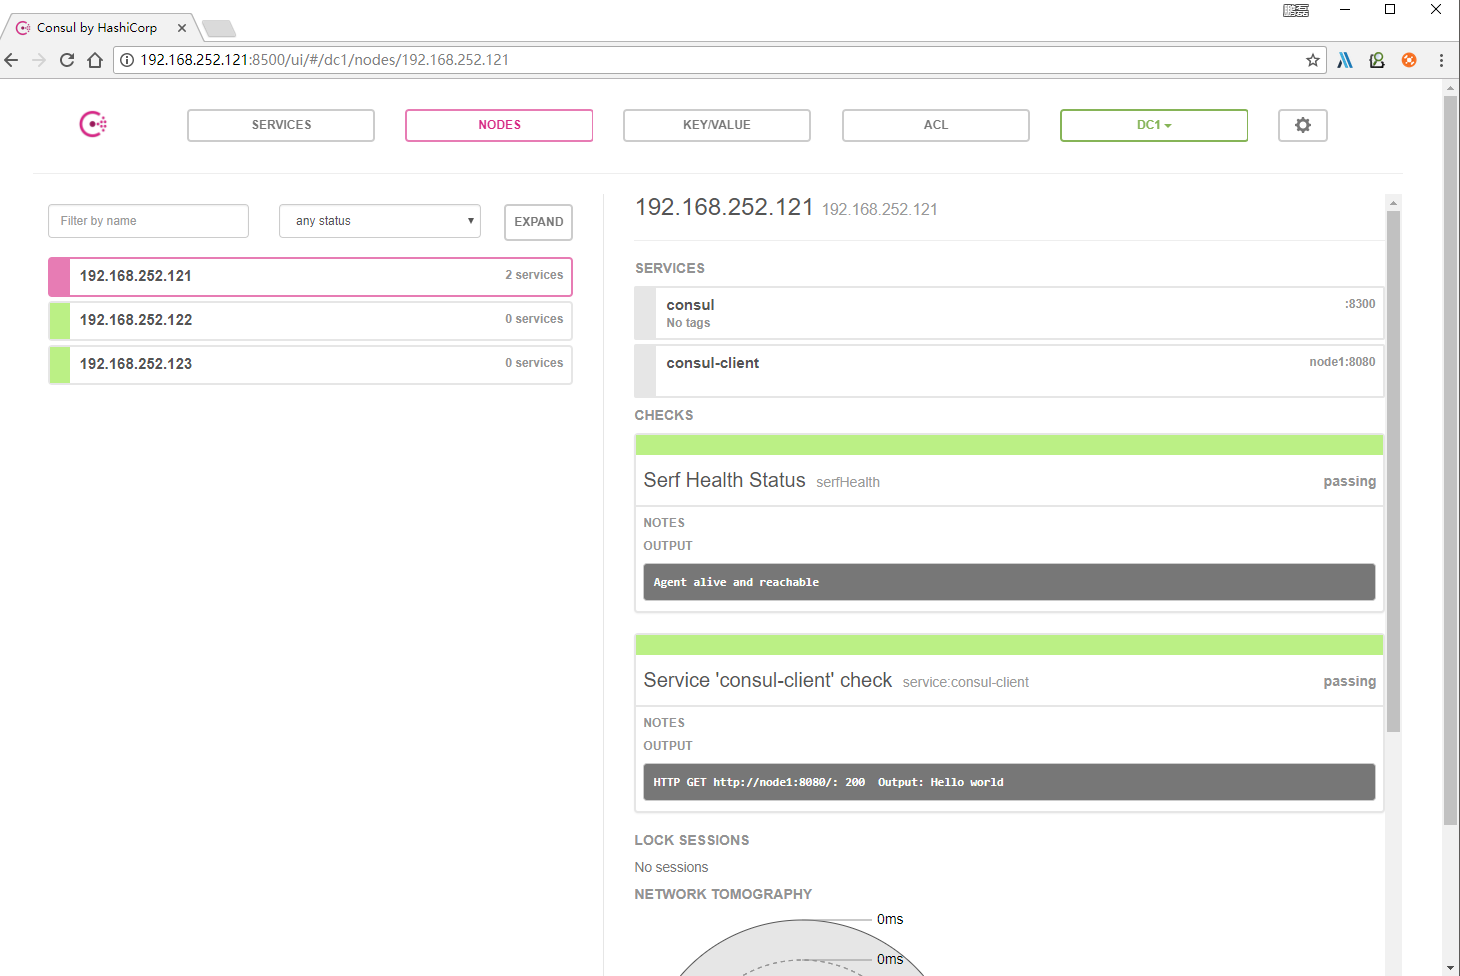
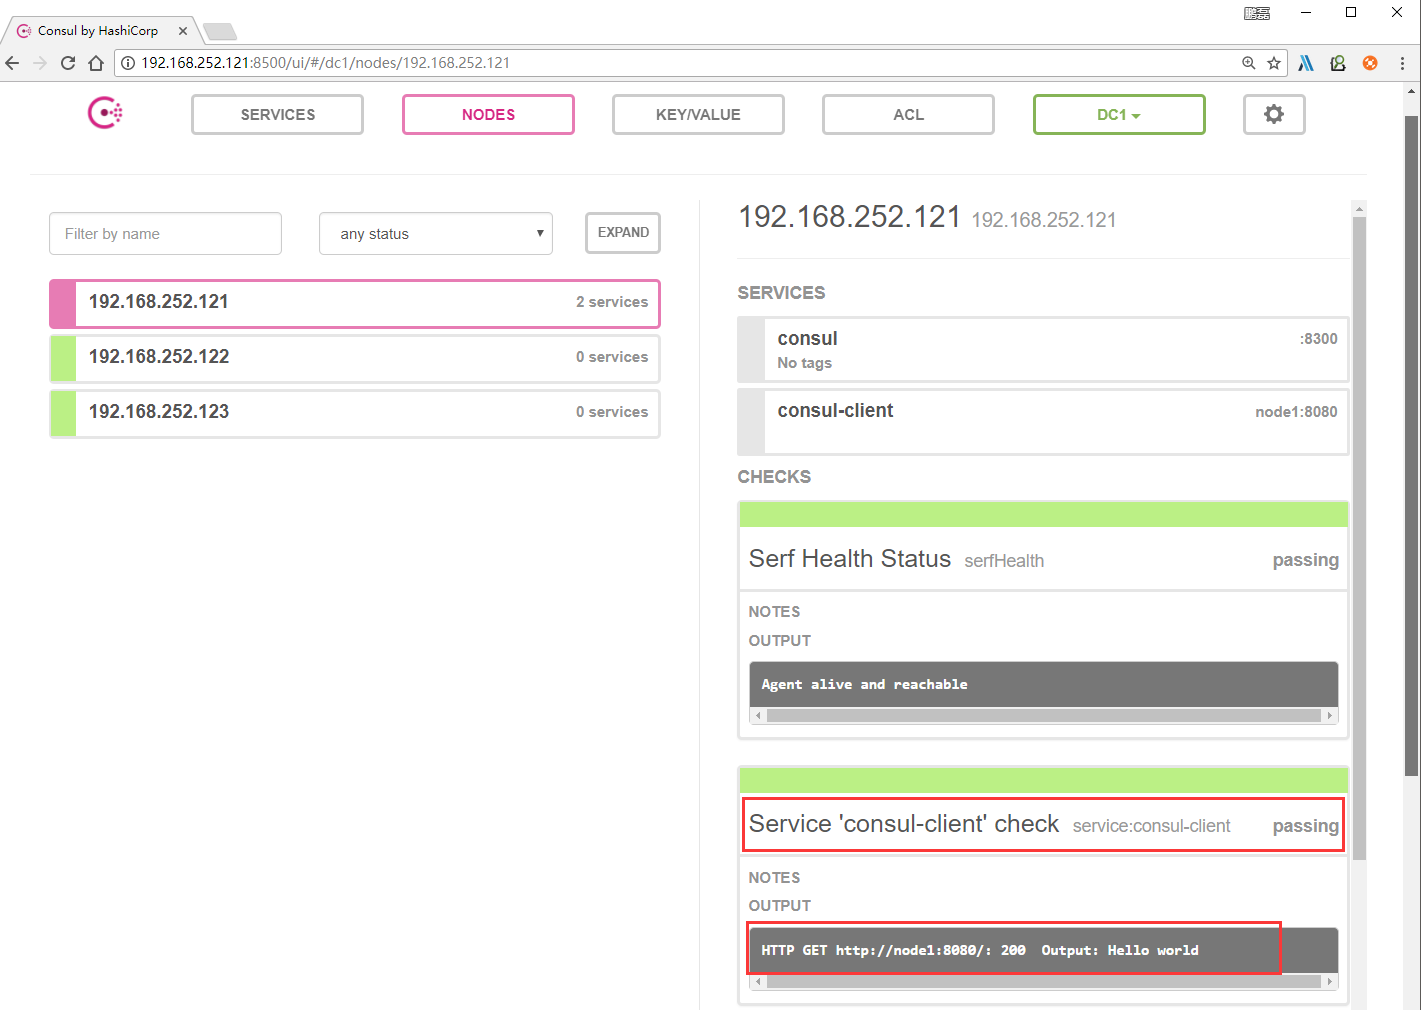
Spring Cloud（二）Consul 服务治理实现

Changed region(s): [[0.031, 0.0922, 1.0, 1.0], [0.0, 0.0, 0.9909, 0.1537]]

diff --git a/_posts/SpringCloud/2017-11-26-spring-cloud-consul.md b/_posts/SpringCloud/2017-11-26-spring-cloud-consul.md
@@ -217,7 +217,6 @@ Protocol 2 spoken by default, understands 2 to 3 (agent will automatically use p
 consul agent -dev -client 192.168.252.121
 ```
 
-
 ![Consul Cluster][1]
 
 ## Consul 的高可用
@@ -355,7 +354,25 @@ discovery:
 	healthCheckInterval: 15s
 ```
 
+## 启动服务
+
+到`spring-cloud-consul-client` 项目根目录下，执行`mvn clean package`，把`target` 目录下 生成的 jar `spring-cloud-consul-client-0.0.1-SNAPSHOT.jar` 上传服务器，发布项目
+
+打包命令
+
+```sh
+mvn clean package
+```
+
+发布命令
+
+```sh
+nohup java -jar spring-cloud-consul-client-0.0.1-SNAPSHOT.jar  > /dev/null 2>&1 &
+```
+
 ## 访问服务
+
+[http://192.168.252.121:8500/ui/#/dc1/nodes/192.168.252.121](http://192.168.252.121:8500/ui/#/dc1/nodes/192.168.252.121)
 
 ![Consul Cluster 集群 服务注册情况][4]
 
@@ -363,13 +380,11 @@ discovery:
 
 ![Consul Cluster集群 服务注册情况][6]
 
+**通过上图HTTP健康检查，可以看到服务检测正常**
 
 ## 源码下载
 
-代码我已放到 Github ，导入`spring-cloud-consul-client` 项目 
-
-github [https://github.com/souyunku/spring-cloud-examples/tree/master/spring-cloud-consul-client](https://github.com/souyunku/spring-cloud-examples/tree/master/spring-cloud-consul-client)
-
+Github [https://github.com/souyunku/spring-cloud-examples/tree/master/spring-cloud-consul-client](https://github.com/souyunku/spring-cloud-examples/tree/master/spring-cloud-consul-client)
 
 [1]: http://www.ymq.io/images/2017/SpringCloud/consul/1.png
 [2]: http://www.ymq.io/images/2017/SpringCloud/consul/2.png
